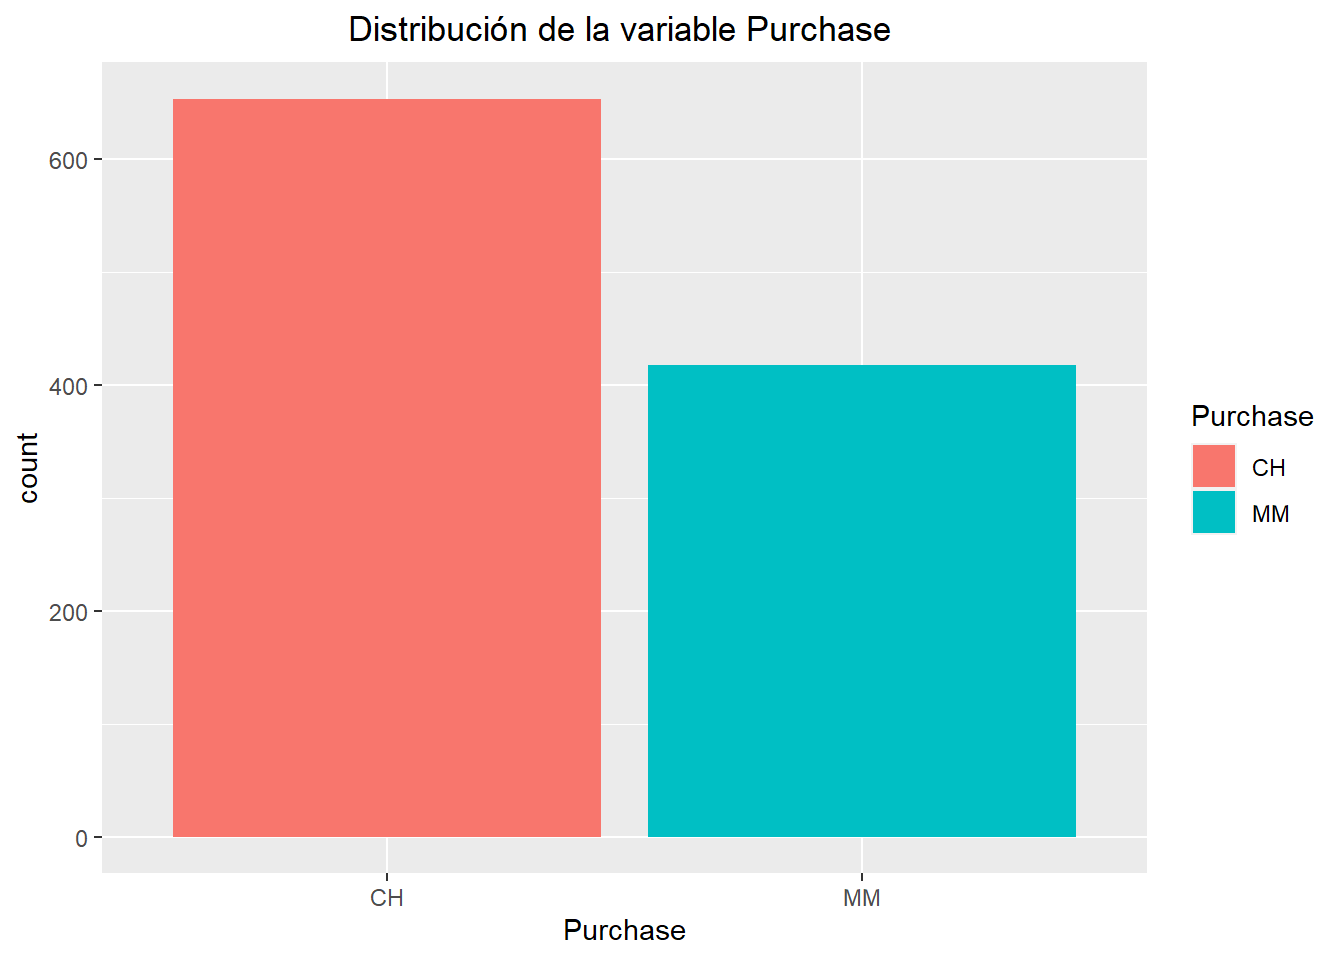
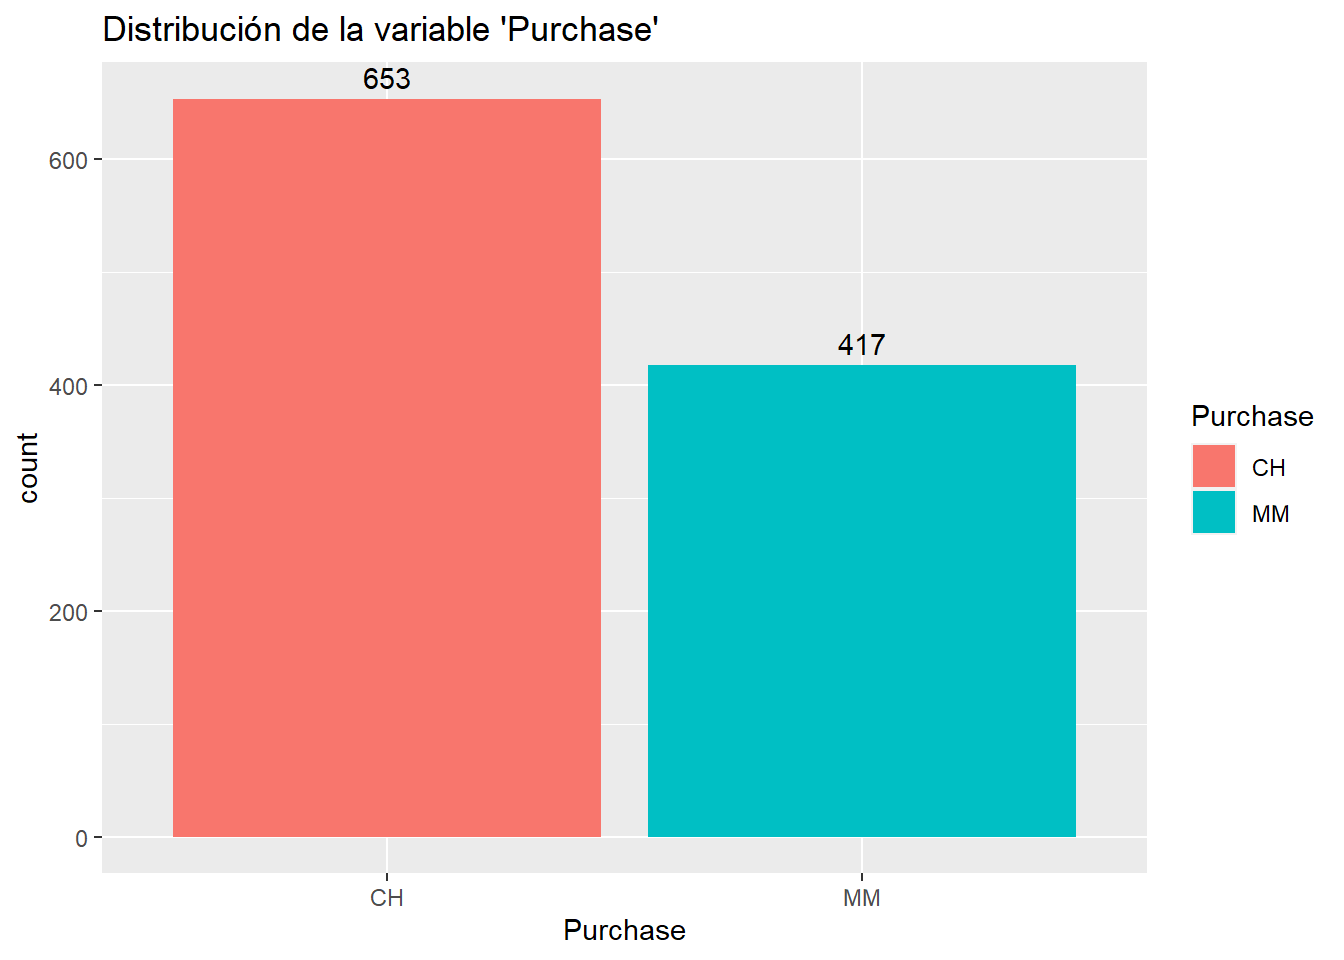
actualización

Changed region(s): [[0.0625, 0.0, 0.6562, 0.0938], [0.625, 0.3438, 0.6562, 0.375]]

diff --git a/clase8/1_msv_1.html b/clase8/1_msv_1.html
@@ -3145,14 +3145,14 @@ vertical-align: -.125em;
 <section id="análisis-exploratorio-de-datos" class="level2">
 <h2 class="anchored" data-anchor-id="análisis-exploratorio-de-datos">Análisis Exploratorio de Datos</h2>
 <div class="cell">
-<div class="sourceCode cell-code" id="cb4"><pre class="sourceCode r code-with-copy"><code class="sourceCode r"><span id="cb4-1"><a href="#cb4-1" aria-hidden="true" tabindex="-1"></a><span class="fu">ggplot</span>(<span class="at">data =</span> OJ, <span class="fu">aes</span>(<span class="at">x =</span> Purchase, <span class="at">y =</span> ..count.., <span class="at">fill =</span> Purchase)) <span class="sc">+</span></span>
-<span id="cb4-2"><a href="#cb4-2" aria-hidden="true" tabindex="-1"></a>  <span class="fu">geom_bar</span>()<span class="sc">+</span></span>
-<span id="cb4-3"><a href="#cb4-3" aria-hidden="true" tabindex="-1"></a>  <span class="fu">labs</span>(<span class="at">title =</span> <span class="st">&quot;Distribución de la variable Purchase &quot;</span>) <span class="sc">+</span></span>
-<span id="cb4-4"><a href="#cb4-4" aria-hidden="true" tabindex="-1"></a>  <span class="fu">theme</span>(<span class="at">plot.title =</span> <span class="fu">element_text</span>(<span class="at">hjust=</span><span class="fl">0.5</span>))</span></code><button title="Copy to Clipboard" class="code-copy-button"><i class="bi"></i></button></pre></div>
+<div class="sourceCode cell-code" id="cb4"><pre class="sourceCode r code-with-copy"><code class="sourceCode r"><span id="cb4-1"><a href="#cb4-1" aria-hidden="true" tabindex="-1"></a><span class="fu">ggplot</span>(datos, <span class="fu">aes</span>(<span class="at">x =</span> Purchase, <span class="at">fill =</span> Purchase)) <span class="sc">+</span></span>
+<span id="cb4-2"><a href="#cb4-2" aria-hidden="true" tabindex="-1"></a>  <span class="fu">geom_bar</span>() <span class="sc">+</span></span>
+<span id="cb4-3"><a href="#cb4-3" aria-hidden="true" tabindex="-1"></a>  <span class="fu">geom_text</span>(<span class="at">stat =</span> <span class="st">&#39;count&#39;</span>, <span class="fu">aes</span>(<span class="at">label =</span> ..count..), <span class="at">vjust =</span> <span class="sc">-</span><span class="fl">0.5</span>) <span class="sc">+</span></span>
+<span id="cb4-4"><a href="#cb4-4" aria-hidden="true" tabindex="-1"></a>  <span class="fu">labs</span>(<span class="at">title =</span> <span class="st">&quot;Distribución de la variable &#39;Purchase&#39; &quot;</span>)</span></code><button title="Copy to Clipboard" class="code-copy-button"><i class="bi"></i></button></pre></div>
 <div class="cell-output-display">
 <div>
 <figure class="figure">
[2 lines of base64/hex data omitted]
 </figure>
 </div>
 </div>
